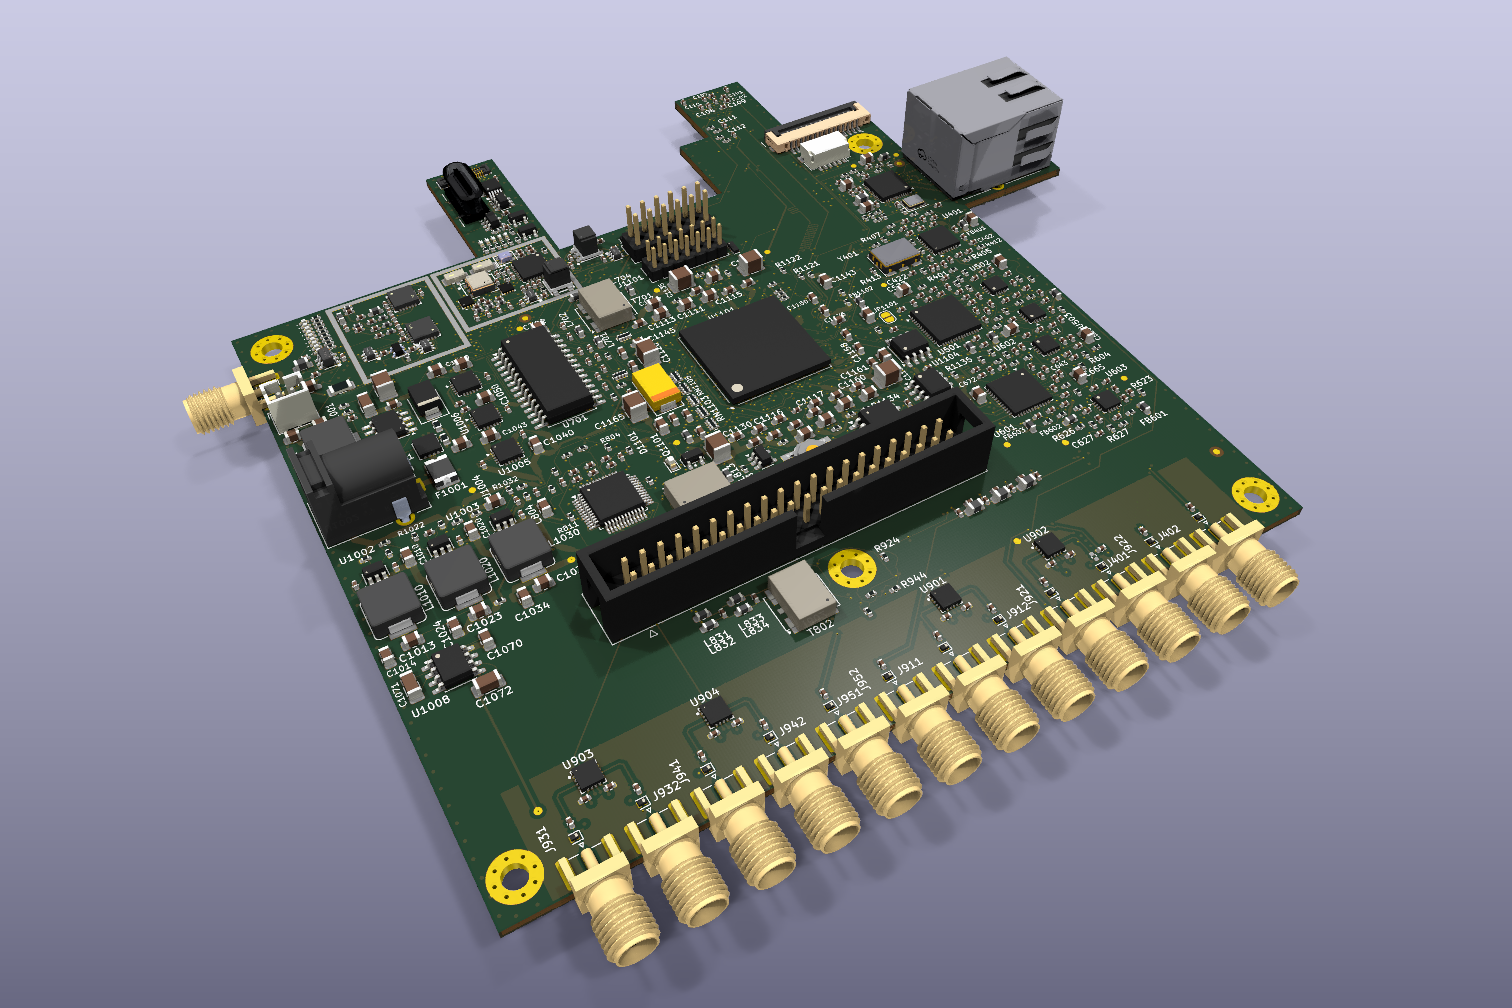
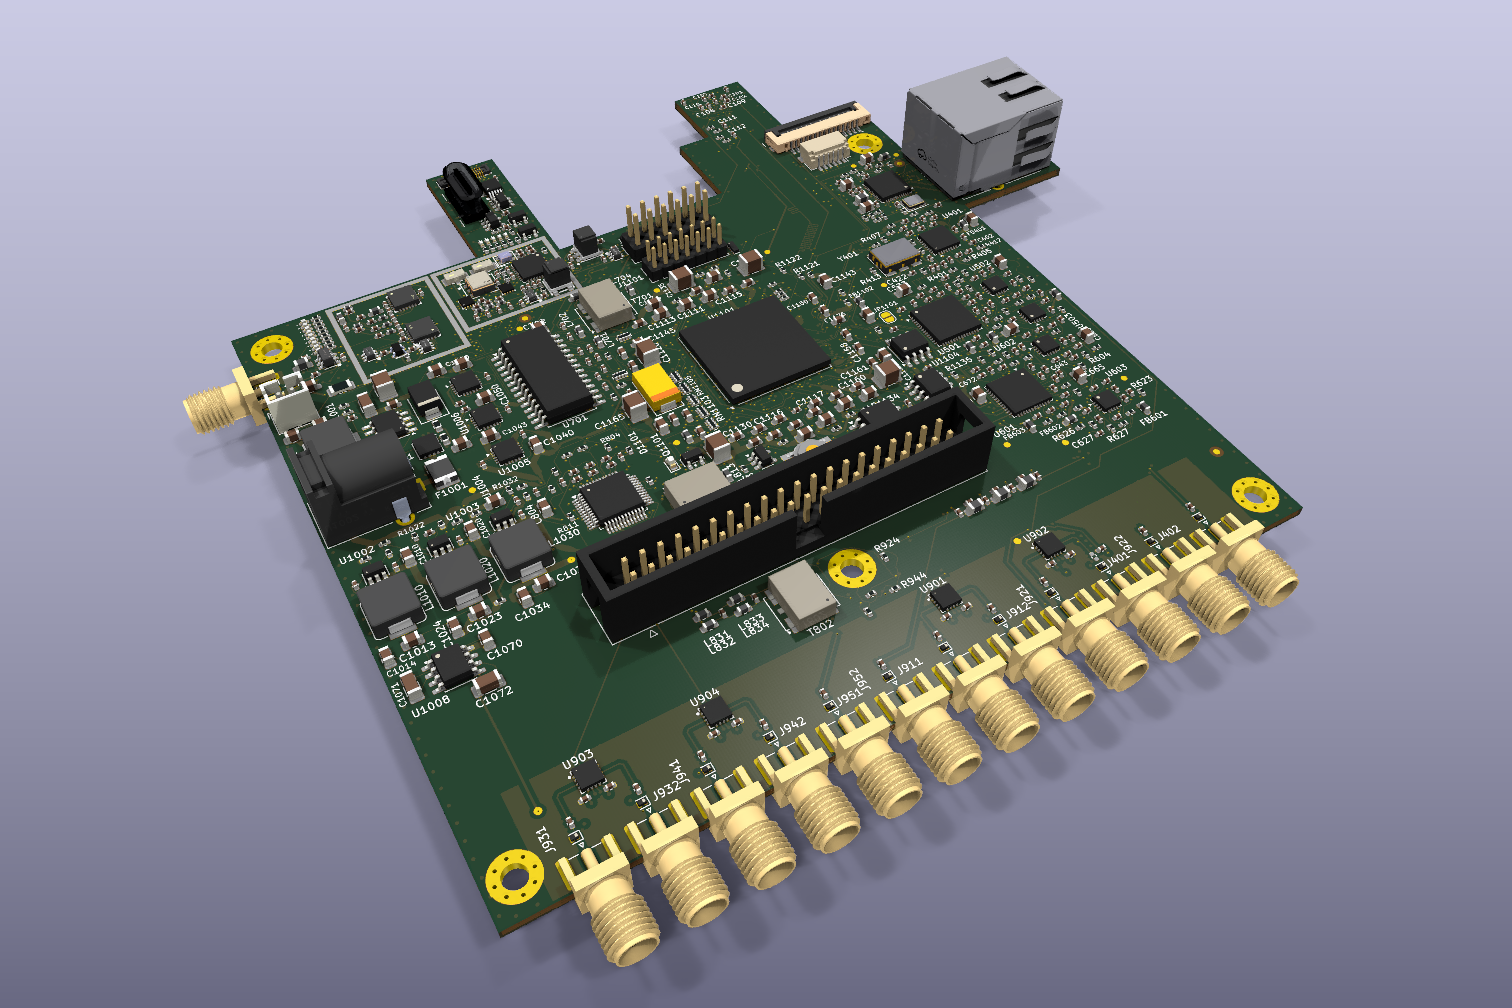
J1503's 3-D model: EasyEDA's SM06B toned (KiCad's is pure white); renders and book again; README links the 3-D explorer

Changed region(s): [[0.5284, 0.123, 0.5595, 0.1845]]

diff --git a/_work/rev08_final_models.py b/_work/rev08_final_models.py
@@ -4,8 +4,9 @@
 
 * J1502, the XUNPU 15-way FPC receptacle: its EasyEDA model (LCSC C19269358) into _work/mech/cache/models3d (outside
   git), with the white lid and the light grey latch turned to the ceramic tone, and the beige body darkened a little.
-* J1503, the JST-SH header: KiCad's own model is a STEP with a pure white housing, so the board points J1503 at
-  EasyEDA's model of the same part (LCSC C160404, the same land pattern within 0.06 mm), toned like the others.
+* J1503, the JST-SH header (6-way SM06B-SRSS-TB since the vehicle CAN): KiCad's own model is a STEP with a pure
+  white housing, so the board points J1503 at EasyEDA's model of the same part (LCSC C160405, fetched with
+  `easyeda2kicad --3d --lcsc_id C160405`), toned like the others.
 * J1501's model is ours, made by _work/mech/usbc_hro_model.py.
 
 Usage:  py _work/rev08_final_models.py --models <dir with the EasyEDA .wrl files>
@@ -19,7 +20,7 @@ ROOT = os.path.dirname(os.path.dirname(os.path.abspath(__file__)))
 PCB = os.path.join(ROOT, "CSI2-KRIA-KV260_Rev01.kicad_pcb")
 CACHE = os.path.join(ROOT, "_work", "mech", "cache", "models3d")
 FPC = "FPC-SMD_15P-P1.00_XUNPU_FPC-1.0FX-15PWCR-H20.wrl"
-JST_SRC, JST = "CONN-SMD_SR1.00-WS-4P.wrl", "JST_SH_SM04B-SRSS-TB_toned.wrl"
+JST_SRC, JST = "CONN-SMD_SR1.00-WS-6P.wrl", "JST_SH_SM06B-SRSS-TB_toned.wrl"
 TONES = [  # (colour in the EasyEDA file, colour written)
     (r"diffuseColor 1\.0 1\.0 1\.0\b", "diffuseColor 0.62 0.60 0.55"),
     (r"diffuseColor 0\.75294\d* 0\.75294\d* 0\.75294\d*", "diffuseColor 0.55 0.55 0.55"),

diff --git a/_work/rev08_can_pcb.py b/_work/rev08_can_pcb.py
@@ -11,6 +11,8 @@ The vehicle CAN on the board (18 November 2026, before the Rev08 tag), as text e
   3. The transceiver, the NOR pair, the ESD diode and the passives on the bottom of the same corner, beyond the
      carrier's edge (KiCad y > 107.25), in the free area south of the GPS circuit.
 
+Then run _work/rev08_final_models.py, which points J1503 at its toned 3-D model (KiCad's is pure white).
+
 Usage:  py _work/rev08_can_pcb.py <in.kicad_pcb> <out.kicad_pcb>
 """
 import math

diff --git a/README.md b/README.md
@@ -8,6 +8,8 @@ been validated.** The hardware, dual-FPGA Vivado gateware, Enclosure v2 cooling,
 
 ![The board, 3D render](docs/img/board_iso.png)
 
+**Explore it in 3-D:** [pablosoage.github.io/kv260-ias2rf](https://pablosoage.github.io/kv260-ias2rf/). Turn the board, the KV260 and the enclosure, open the case, hover a part to see what it is and what it does, and look at the board layer by layer.
+
 An adapter board for the **AMD Kria KV260 Vision AI Starter Kit**. It plugs into the KV260's IAS1
 camera connector and carries the converters, a common clock and a front-end FPGA. It serves two
 signal chains:
